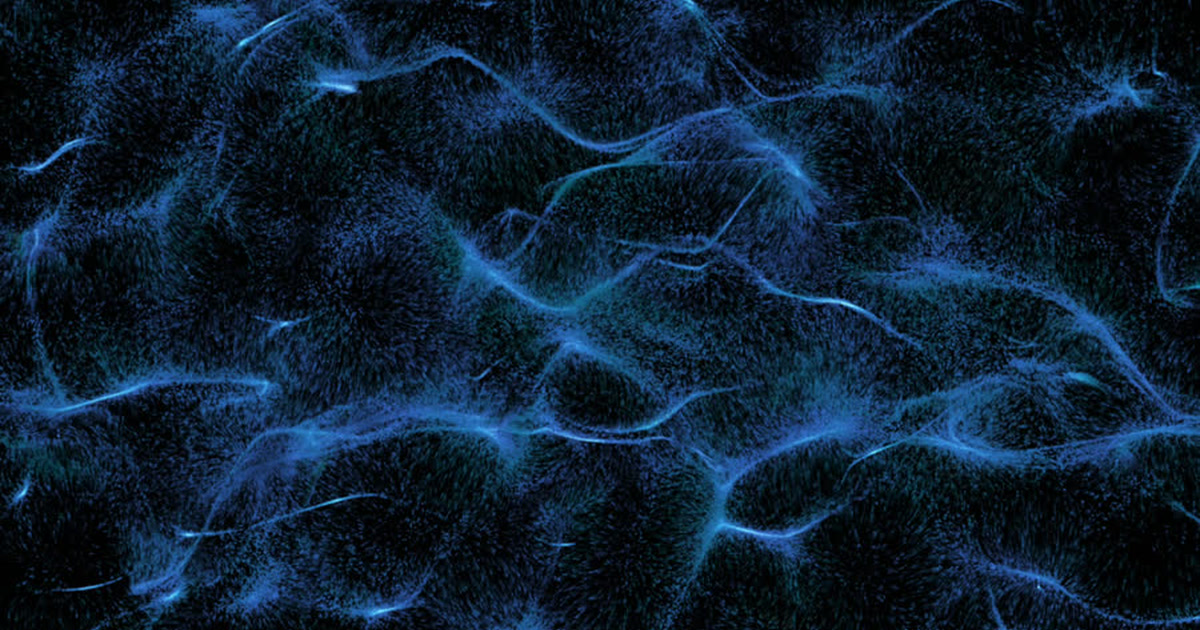
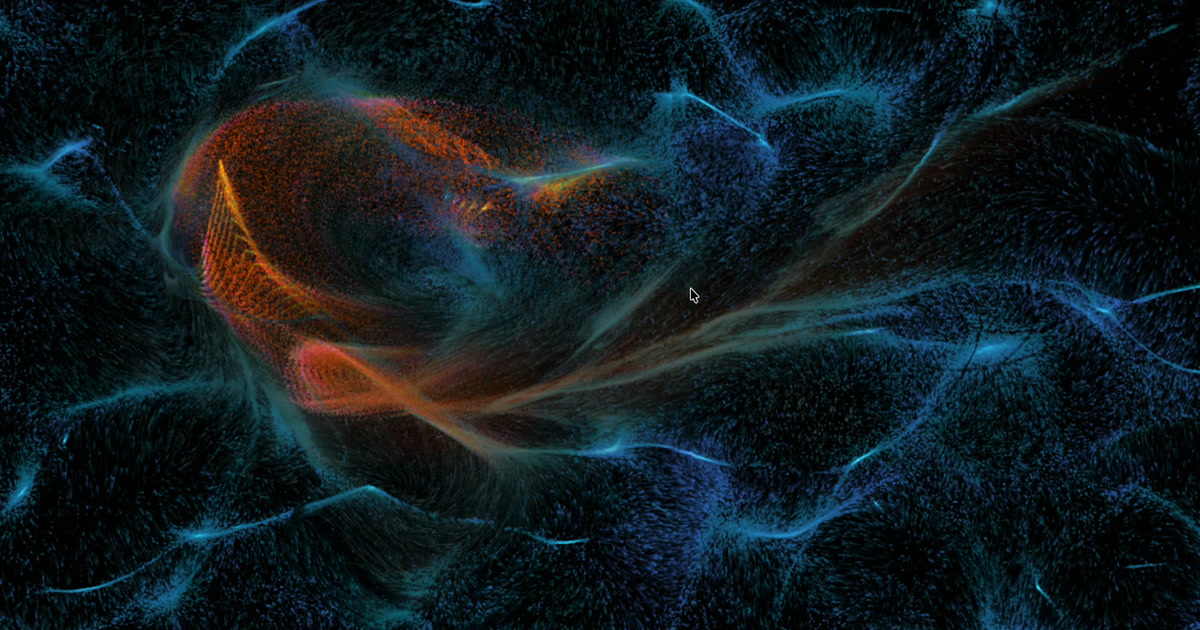
Use Ember and Ease disturbed picture for link preview

diff --git a/index.html b/index.html
@@ -12,7 +12,7 @@
 <meta property="og:image" content="https://sowmyareddysangem.github.io/media/og-image.jpg">
 <meta property="og:image:width" content="1200">
 <meta property="og:image:height" content="630">
-<meta property="og:image:alt" content="Ember and Ease at rest: a calm teal particle current">
+<meta property="og:image:alt" content="Ember and Ease: a teal particle flow field with a warm orange plume cutting through it">
 <meta name="twitter:card" content="summary_large_image">
 <meta name="twitter:title" content="Sowmya Reddy Sangem">
 <meta name="twitter:description" content="TouchDesigner developer and interactive visual artist based in Hyderabad.">
